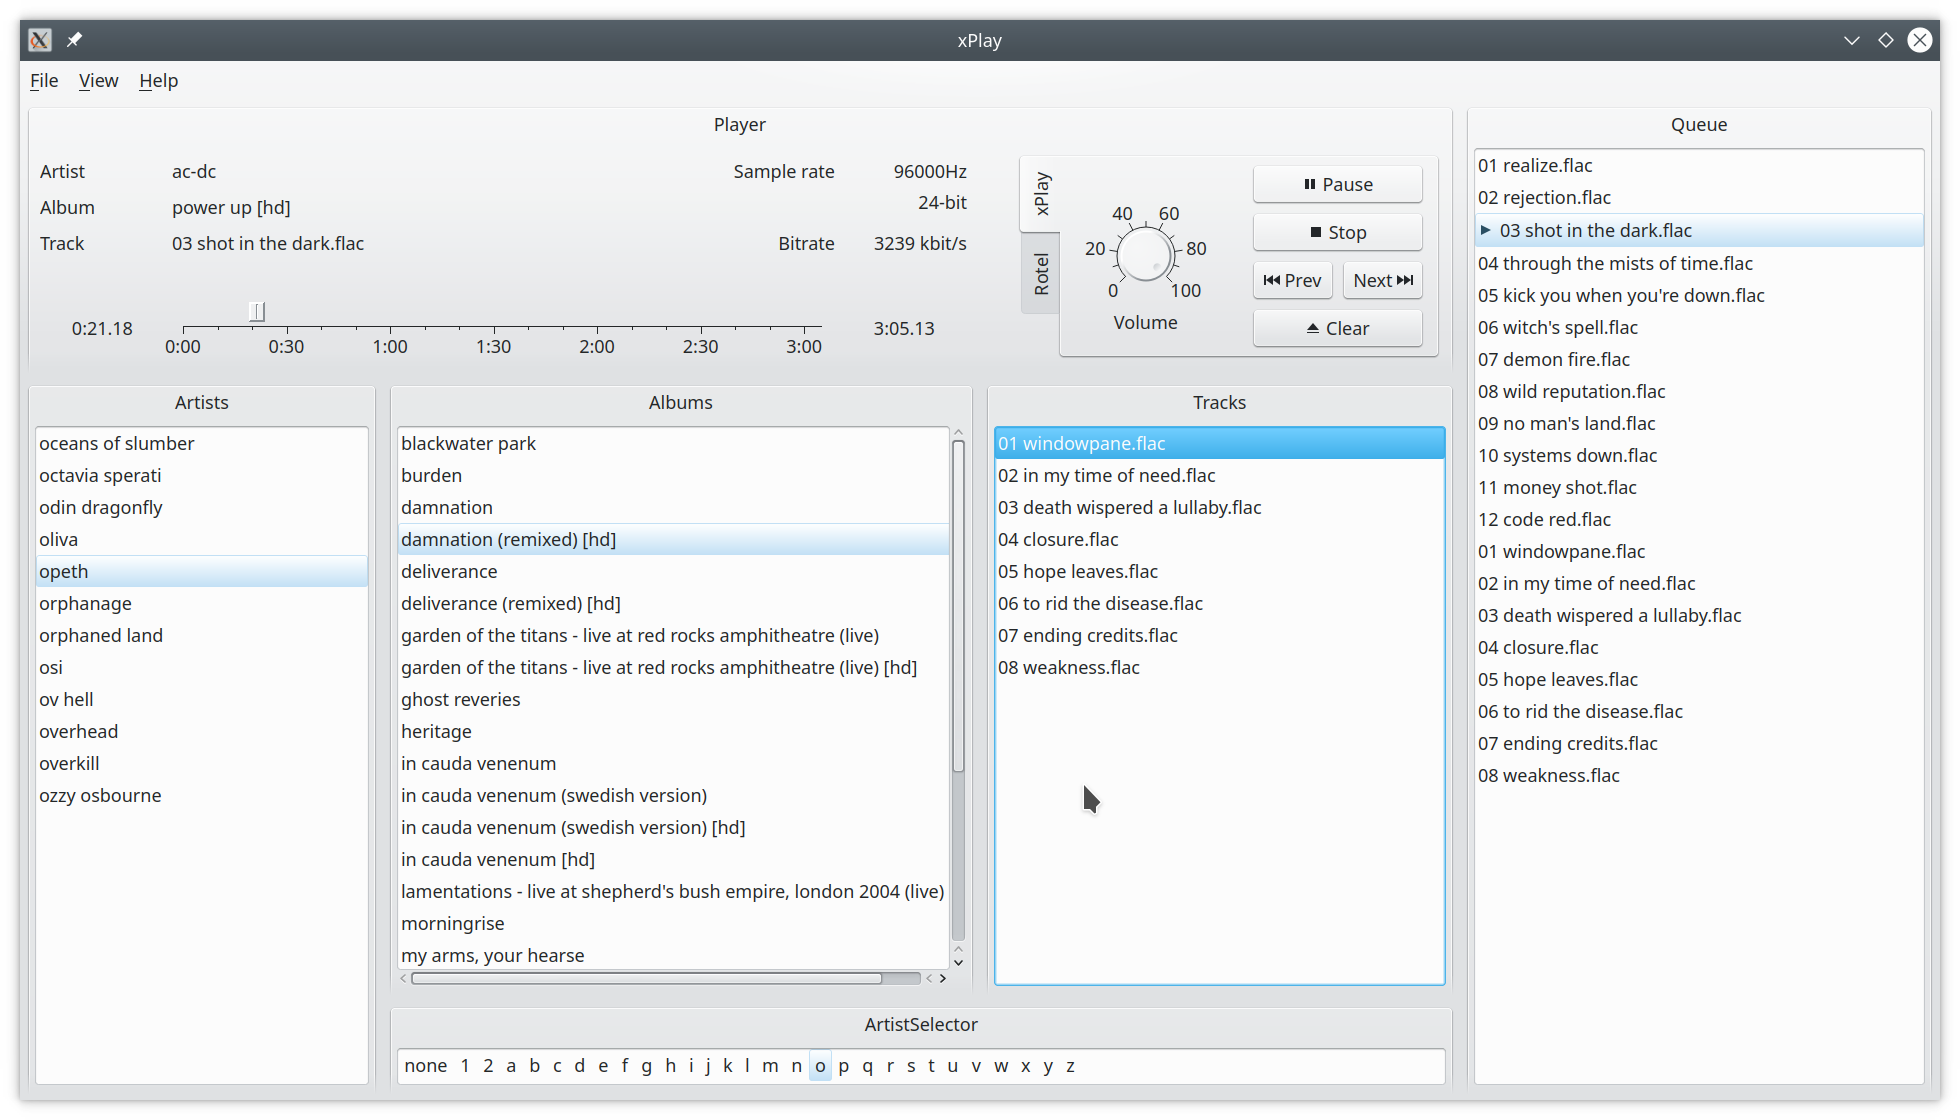
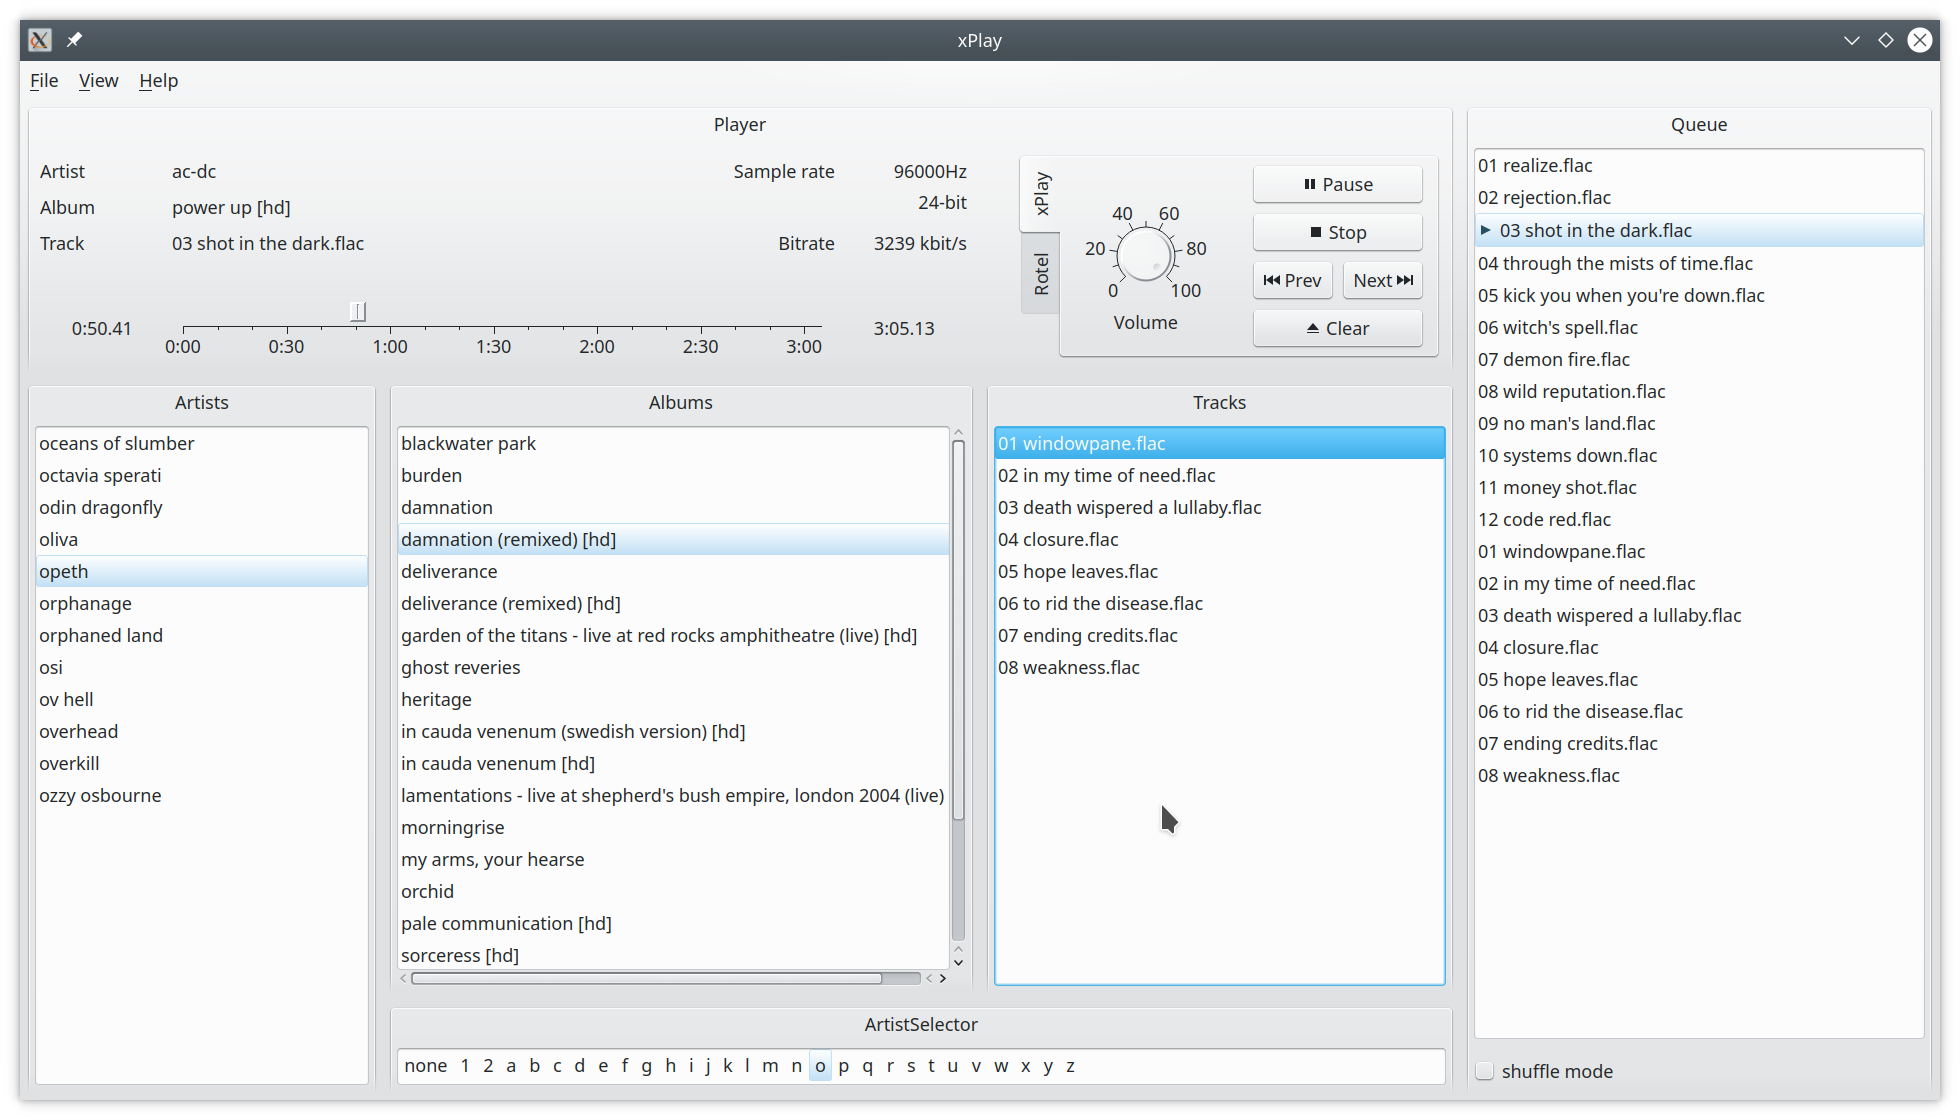
Update CHANGELOG.md and README.md. Update screenshots and version number.

diff --git a/xPlay.cpp b/xPlay.cpp
@@ -147,7 +147,7 @@ int main(int argc, char* argv[])
 {
     QApplication playApp(argc, argv);
     QApplication::setApplicationName("xPlay");
-    QApplication::setApplicationVersion("0.5.1");
+    QApplication::setApplicationVersion("0.5.2");
     if (handleCommandLine(playApp)) {
         // Exit if the command line was handled.
         return 0;

diff --git a/README.md b/README.md
@@ -88,7 +88,8 @@ are added to the queue. If you right-click on a track in the track list, then on
 queue. A double-click on an artist will queue all albums of the selected artist. The horizontal artist selector list 
 can be used to filter the artist list by the first character. The filtering is removed if you click on *none*. 
 If a selector is double-clicked then all selected artists with their albums are queue. A double-click on *none* will
-queue the entire music library.
+queue the entire music library. The queue does support a shuffle mode where the tracks will be played at random. The
+jump to an individual track in the queue or the deque of a single track is not supported in shuffle mode.
 
 The database overlay (if activated) marks every artist, album and track with a star (*) if it has been played within 
 the configured time period. For each track a tooltip is added that shows how many times this track has been 

diff --git a/CHANGELOG.md b/CHANGELOG.md
@@ -1,5 +1,10 @@
 # Changelog
 
+## 0.5.2 - 2020-12-29
+
+- Add shuffle-mode for the queue. Deque and double-click on queue track are disabled.
+- Improved database usage.
+
 ## 0.5.1 - 2020-12-27
 
 - Adjusted music view layout.
